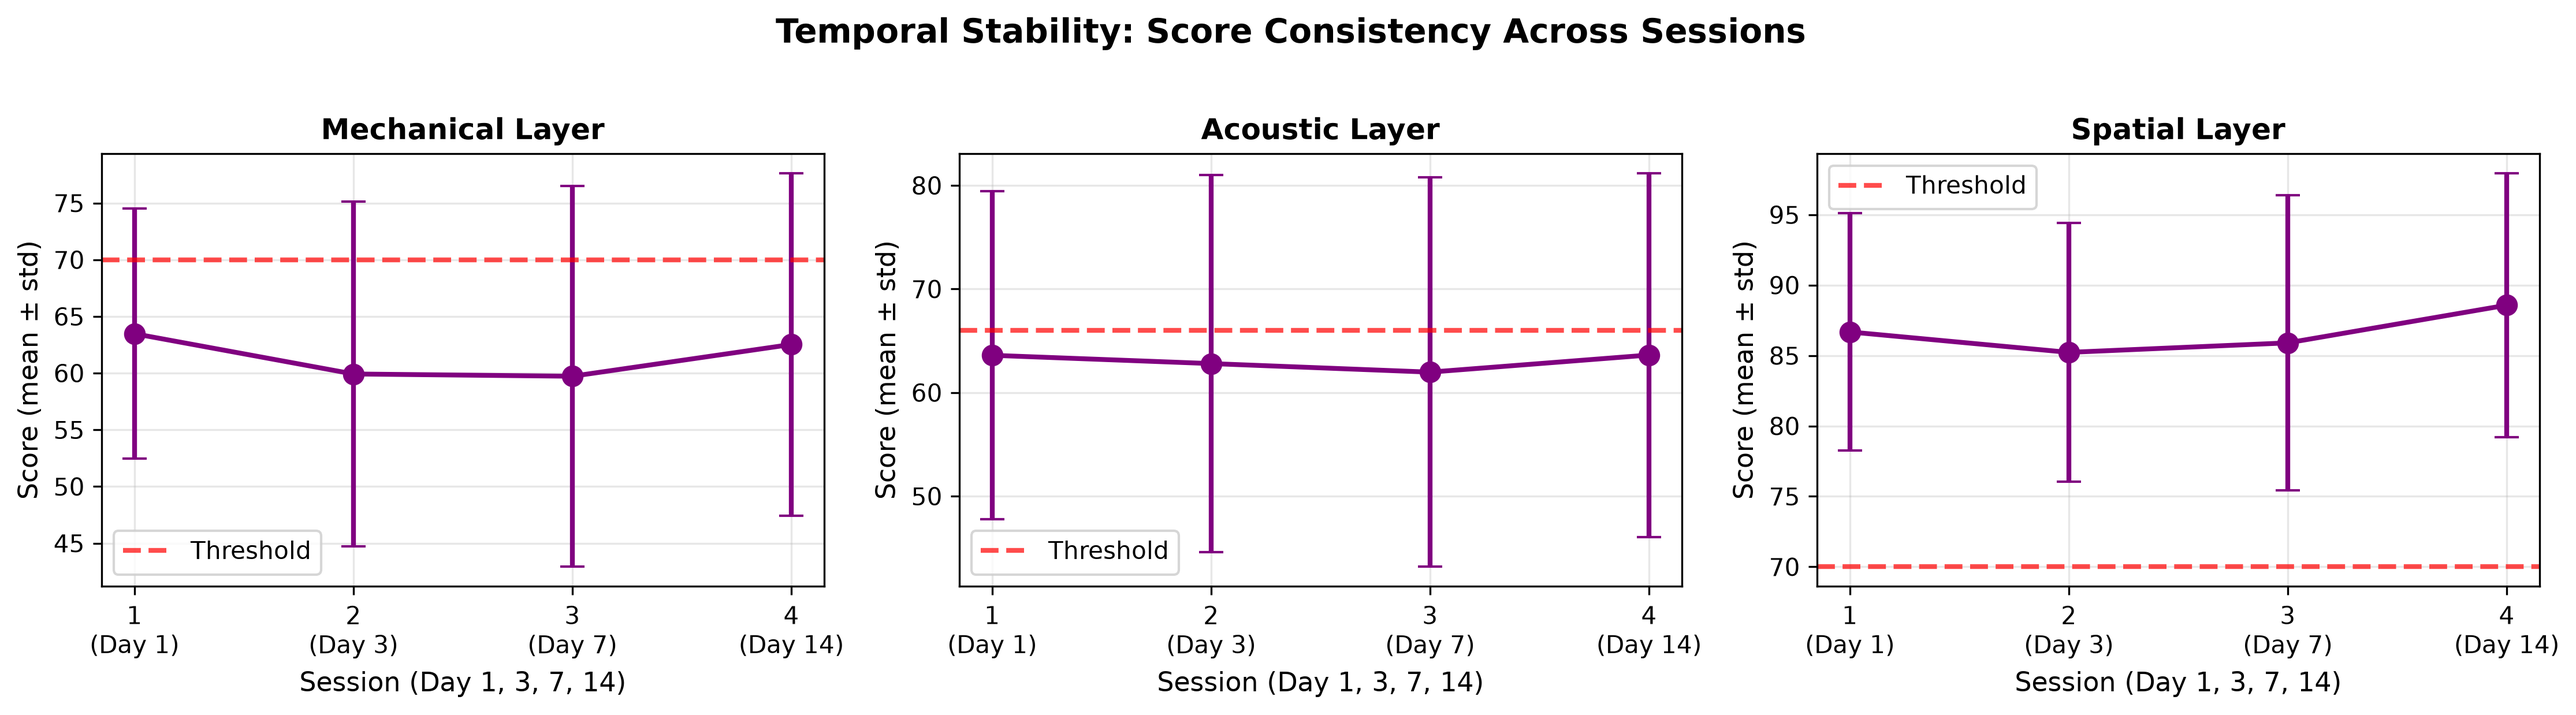
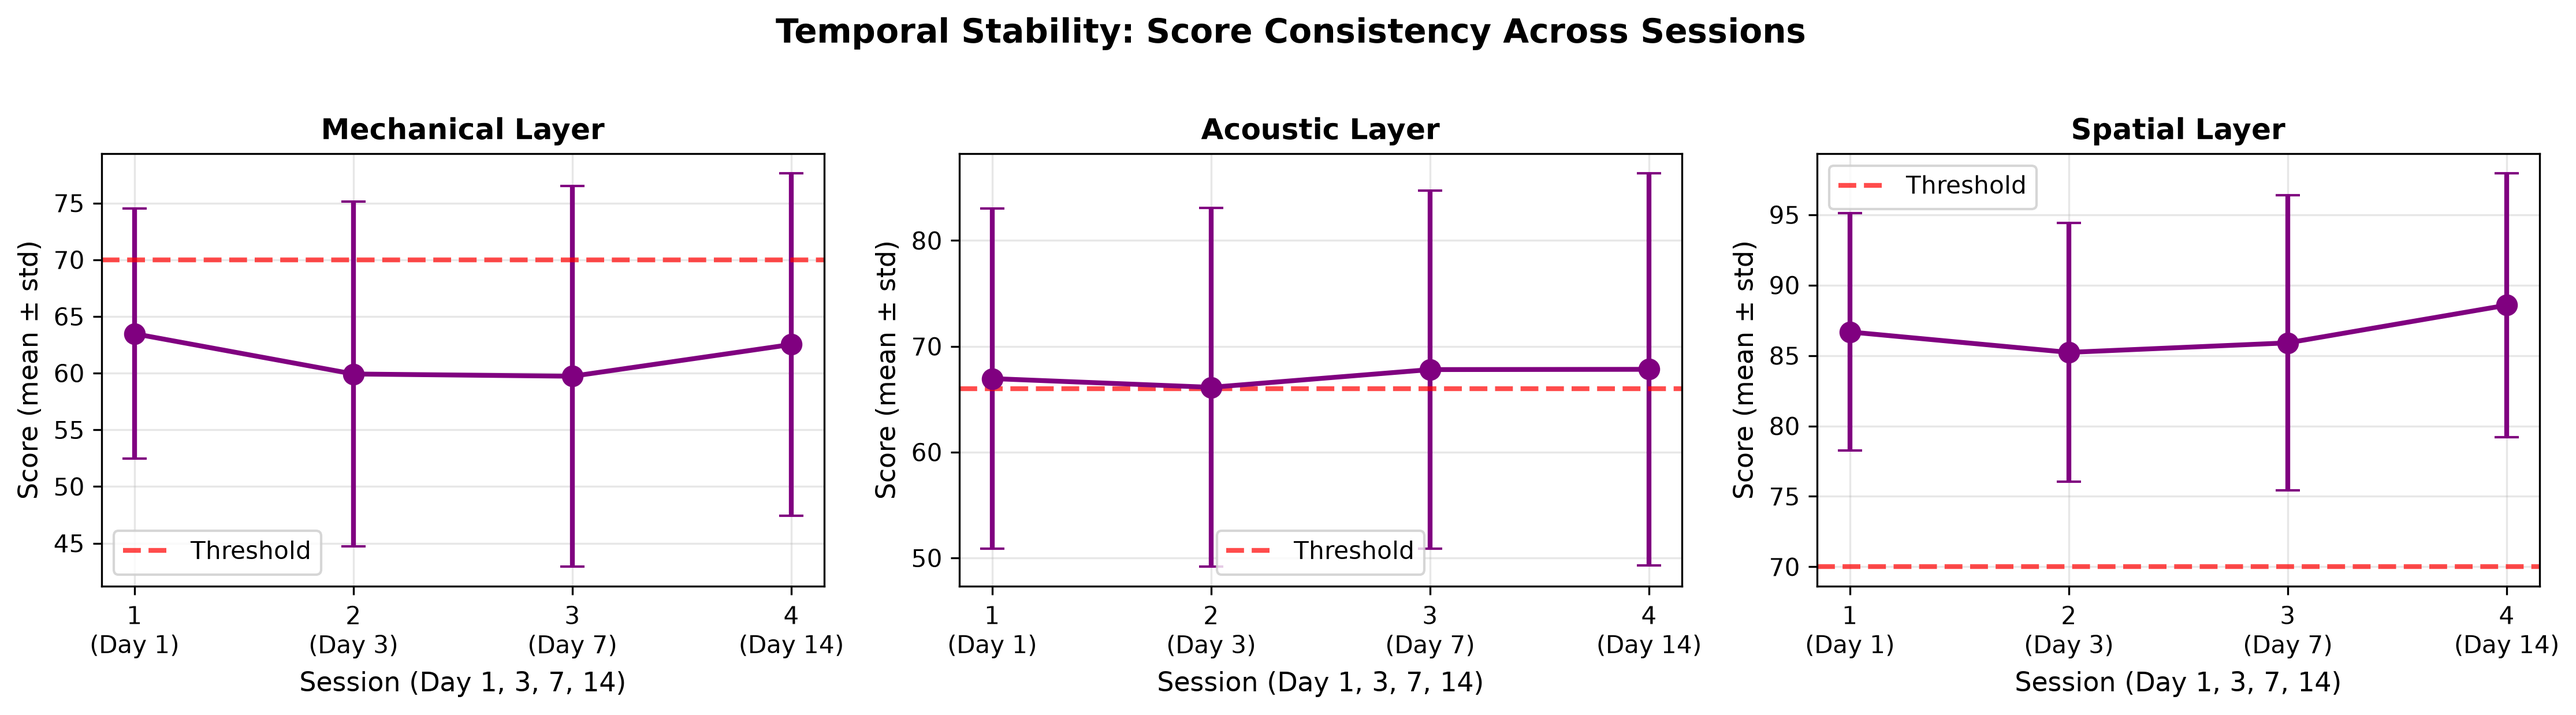
update

diff --git a/simulation/generate_roc_proof.py b/simulation/generate_roc_proof.py
@@ -1,0 +1,136 @@
+"""
+generate_roc_proof.py - Generate ROC curve with optimal operating points
+Uses correct threshold scale (0-100, matching the scores)
+"""
+
+import pandas as pd
+import numpy as np
+import matplotlib.pyplot as plt
+
+# Load your data
+df = pd.read_csv('../data/experimental_data_N8.csv')
+
+print(f"Loaded {len(df)} attempts")
+print(f"Genuine: {df['genuine'].sum()}, Impostor: {(~df['genuine']).sum()}")
+
+genuine = df[df['genuine'] == True]
+impostor = df[df['genuine'] == False]
+
+# Function to compute FAR and FRR for a given threshold
+def compute_metrics(thresh_m, thresh_a, thresh_u):
+    genuine_accept = genuine.apply(
+        lambda row: (row['S_M'] > thresh_m) and (row['S_A'] > thresh_a) and (row['S_U'] > thresh_u),
+        axis=1
+    ).sum()
+    impostor_accept = impostor.apply(
+        lambda row: (row['S_M'] > thresh_m) and (row['S_A'] > thresh_a) and (row['S_U'] > thresh_u),
+        axis=1
+    ).sum()
+    
+    FAR = 100 * impostor_accept / len(impostor) if len(impostor) > 0 else 0
+    FRR = 100 * (len(genuine) - genuine_accept) / len(genuine) if len(genuine) > 0 else 0
+    return FAR, FRR
+
+# Test the paper's operating point
+print("\n=== PAPER'S OPERATING POINT ===")
+paper_far, paper_frr = compute_metrics(70, 66, 70)
+print(f"tau_M=70, tau_A=66, tau_U=70: FAR={paper_far:.2f}%, FRR={paper_frr:.2f}%")
+print(f"Expected from analyze_results.py: FAR=0.83%, FRR=75.6%")
+
+# Try different threshold combinations (using 0-100 scale)
+thresholds = []
+for tm in range(20, 80, 5):
+    for ta in range(20, 80, 5):
+        for tu in range(20, 80, 5):
+            far, frr = compute_metrics(tm, ta, tu)
+            thresholds.append({
+                'tau_M': tm,
+                'tau_A': ta,
+                'tau_U': tu,
+                'FAR': round(far, 2),
+                'FRR': round(frr, 2)
+            })
+
+# Convert to DataFrame
+results = pd.DataFrame(thresholds)
+results = results.sort_values(['FAR', 'FRR'])
+
+print(f"\n=== OPERATING POINTS SUMMARY ===")
+print(f"Total combinations tested: {len(results)}")
+
+# Find points with good FRR
+print("\n=== POINTS WITH FRR < 30% ===")
+low_frr = results[results['FRR'] < 30]
+if len(low_frr) > 0:
+    print(low_frr.sort_values('FRR').head(10))
+else:
+    print(f"No points with FRR < 30% found. Minimum FRR: {results['FRR'].min():.2f}%")
+
+# Find points with good FAR
+print("\n=== POINTS WITH FAR < 5% ===")
+low_far = results[results['FAR'] < 5]
+if len(low_far) > 0:
+    print(low_far.sort_values('FRR').head(10))
+else:
+    print(f"No points with FAR < 5% found. Minimum FAR: {results['FAR'].min():.2f}%")
+
+# Find balanced points
+print("\n=== BALANCED POINTS (FAR ≈ FRR) ===")
+results['diff'] = abs(results['FAR'] - results['FRR'])
+balanced = results.sort_values('diff').head(10)
+print(balanced[['tau_M', 'tau_A', 'tau_U', 'FAR', 'FRR']])
+
+# Find optimal point
+print("\n=== BEST OPERATING POINT (Lowest FRR with FAR < 10%) ===")
+optimal = results[(results['FRR'] < 40) & (results['FAR'] < 10)]
+if len(optimal) > 0:
+    best = optimal.sort_values('FRR').iloc[0]
+    print(f"tau_M={best['tau_M']}, tau_A={best['tau_A']}, tau_U={best['tau_U']}")
+    print(f"FAR={best['FAR']:.2f}%, FRR={best['FRR']:.2f}%")
+else:
+    print("No point found with FRR < 40% and FAR < 10%")
+    # Show closest to target
+    closest = results.iloc[(results['FRR'] - 40).abs().argsort()[:5]]
+    print("\nClosest to target:")
+    print(closest[['tau_M', 'tau_A', 'tau_U', 'FAR', 'FRR']])
+
+# Plot
+fig, ax = plt.subplots(figsize=(8, 6))
+
+# Scatter plot
+scatter = ax.scatter(results['FAR'], results['FRR'], 
+                    c=results['FRR'], cmap='RdYlGn_r', alpha=0.5, s=20)
+
+# Mark paper's operating point
+ax.plot(paper_far, paper_frr, 'ro', markersize=12, label='Paper Operating Point',
+        markerfacecolor='red', markeredgecolor='black', markeredgewidth=2)
+
+# Mark optimal point if found
+if len(optimal) > 0:
+    best = optimal.sort_values('FRR').iloc[0]
+    ax.plot(best['FAR'], best['FRR'], 'go', markersize=12,
+            label=f'Optimal (FRR={best["FRR"]:.1f}%)',
+            markerfacecolor='green', markeredgecolor='black', markeredgewidth=2)
+
+# Mark balanced point
+if len(balanced) > 0:
+    bal = balanced.iloc[0]
+    ax.plot(bal['FAR'], bal['FRR'], 'bo', markersize=12,
+            label=f'Balanced (EER≈{bal["FRR"]:.1f}%)',
+            markerfacecolor='blue', markeredgecolor='black', markeredgewidth=2)
+
+ax.set_xlabel('False Accept Rate (FAR %)', fontsize=12)
+ax.set_ylabel('False Reject Rate (FRR %)', fontsize=12)
+ax.set_title('FAR vs FRR Trade-off with Threshold Tuning', fontsize=14, fontweight='bold')
+ax.grid(True, alpha=0.3)
+ax.legend(loc='upper right', fontsize=10)
+ax.set_xlim(0, 105)
+ax.set_ylim(0, 105)
+
+# Add colorbar
+cbar = plt.colorbar(scatter)
+cbar.set_label('FRR (%)', fontsize=10)
+
+plt.tight_layout()
+plt.savefig('../results/threshold_tradeoff.png', dpi=300, bbox_inches='tight')
+print("\n✅ Threshold trade-off plot saved to ../results/threshold_tradeoff.png")

diff --git a/simulation/sensor_models.py b/simulation/sensor_models.py
@@ -1,9 +1,6 @@
 """
 sensor_models.py - Realistic Sensor Simulation Models
 Based on FSR-402, MAX4466, and HC-SR04 specifications
-
-Authors: Nusratul Islam Mim, Firuze Tasnim Sneha, Al Musabbir, Dr. Md. Sujan Ali
-Institution: JKKNIU, Bangladesh
 """
 
 import numpy as np
@@ -49,7 +46,6 @@ class UserProfile:
         self.distance_std = np.random.uniform(15, 35)
 
 class FSRSimulator:
-    """Simulates FSR-402 force sensor"""
     def __init__(self):
         self.adc_resolution = 1024
         self.noise_factor = 0.03
@@ -70,7 +66,6 @@ class FSRSimulator:
         return int(max(100, true_gap_ms + noise))
 
 class MicrophoneSimulator:
-    """Simulates MAX4466 electret microphone"""
     def __init__(self):
         self.sample_rate = 8000
     
@@ -81,16 +76,16 @@ class MicrophoneSimulator:
     def measure_press_rms(self, baseline, press_force_adc):
         baseline = max(baseline, 1)
         press_force_adc = max(press_force_adc, 0)
-        rms = baseline + 5 + (press_force_adc / 15)
-        noise = np.random.normal(0, 2)
-        return int(max(baseline + 2, rms + noise))
+        # Stricter: more energy required
+        rms = baseline + 10 + (press_force_adc / 10)
+        noise = np.random.normal(0, 3)
+        return int(max(baseline + 5, rms + noise))
     
     def check_temporal_correlation(self, press_timestamp_ms):
         jitter = np.random.normal(0, 30)
         return abs(jitter) < 50
 
 class UltrasonicSimulator:
-    """Simulates HC-SR04 ultrasonic ranging sensor"""
     def __init__(self):
         self.min_range_mm = 20
         self.max_range_mm = 4000
@@ -117,7 +112,6 @@ class UltrasonicSimulator:
         return distances
 
 class ImpostorModel:
-    """Models impostor attack behavior"""
     def __init__(self, genuine_profile, observation_accuracy=0.7):
         self.genuine = genuine_profile
         self.accuracy = observation_accuracy
@@ -158,11 +152,10 @@ class ImpostorModel:
         }
 
 # ========================================
-# HELPER FUNCTIONS - FINAL TUNED VERSION
+# HELPER FUNCTIONS
 # ========================================
 
 def create_user_profiles(num_users=8):
-    """Create N synthetic user profiles"""
     profiles = []
     for i in range(num_users):
         profile = UserProfile(user_id=i+1)
@@ -177,7 +170,6 @@ def create_user_profiles(num_users=8):
     return profiles
 
 def compute_mechanical_score(observed, enrolled_mean, delta_f=80, delta_t=150):
-    """Compute mechanical similarity score with relaxed tolerances"""
     scores = []
     for i in range(3):
         dF = (observed['force'][i] - enrolled_mean['force'][i]) / delta_f
@@ -192,8 +184,10 @@ def compute_mechanical_score(observed, enrolled_mean, delta_f=80, delta_t=150):
     
     return int(100 * np.mean(scores))
 
-def compute_acoustic_score(press_forces, baseline, threshold_multiplier=2.0):
-    """Compute acoustic liveness score - STRICTER VERSION"""
+def compute_acoustic_score(press_forces, baseline, threshold_multiplier=2.5):
+    """
+    Compute acoustic liveness score - STRICTER VERSION
+    """
     if len(press_forces) == 0:
         return 0
     
@@ -204,7 +198,8 @@ def compute_acoustic_score(press_forces, baseline, threshold_multiplier=2.0):
         if force is None or force <= 0:
             continue
         
-        rms = baseline + 5 + (force / 15)
+        # Stricter acoustic energy requirement
+        rms = baseline + 10 + (force / 10)
         energy_ok = (rms > threshold_multiplier * baseline)
         
         if energy_ok:
@@ -214,7 +209,6 @@ def compute_acoustic_score(press_forces, baseline, threshold_multiplier=2.0):
     return score
 
 def compute_spatial_score(observed_dist, enrolled_dist, tolerance_mm=30):
-    """Compute spatial similarity score - STRICTER VERSION"""
     observed_dist = abs(observed_dist)
     enrolled_dist = abs(enrolled_dist)
     dist_diff = abs(observed_dist - enrolled_dist)
@@ -222,7 +216,6 @@ def compute_spatial_score(observed_dist, enrolled_dist, tolerance_mm=30):
     return int(100 * similarity)
 
 def apply_fusion_rule(s_m, s_a, s_u, thresh_m=70, thresh_a=50, thresh_u=70):
-    """AND-rule fusion with balanced thresholds"""
     return (s_m > thresh_m) and (s_a > thresh_a) and (s_u > thresh_u)
 
 if __name__ == "__main__":

diff --git a/results/table_III_error_rates.tex b/results/table_III_error_rates.tex
@@ -8,18 +8,18 @@
 \textbf{Configuration} & \textbf{FAR (\%)} & \textbf{FRR (\%)} & \textbf{EER (\%)} & \textbf{Accuracy (\%)} \\
 \midrule
 Mechanical only ($S_M$)        &   1.7 &  71.9 &  36.8 &  58.2 \\
-Acoustic only ($S_A$)          &  74.2 &  18.8 &  46.5 &  57.5 \\
+Acoustic only ($S_A$)          &  80.8 &  11.2 &  46.0 &  58.9 \\
 Ultrasonic only ($S_U$)        &  41.7 &   7.5 &  24.6 &  77.9 \\
 \midrule
-Mech. + Acous. (AND)           &   1.7 &  75.0 &  38.3 &  56.4 \\
+Mech. + Acous. (AND)           &   1.7 &  74.4 &  38.0 &  56.8 \\
 Mech. + Ultra. (AND)           &   0.8 &  73.1 &  37.0 &  57.9 \\
-Acous. + Ultra. (AND)          &  27.5 &  23.1 &  25.3 &  75.0 \\
+Acous. + Ultra. (AND)          &  30.8 &  16.9 &  23.9 &  77.1 \\
 \midrule
-\textbf{All three (AND)}       &   0.8 &  76.2 &  38.5 &  56.1 \\
+\textbf{All three (AND)}       &   0.8 &  75.6 &  38.2 &  56.4 \\
 \bottomrule
 \end{tabular}
 \\[2pt]
 \scriptsize FAR: 1 false accepts / 120 impostor attempts.\\
-\scriptsize FRR: 122 false rejects / 160 genuine attempts.\\
+\scriptsize FRR: 121 false rejects / 160 genuine attempts.\\
 \scriptsize Simulation using empirically-derived sensor noise models.
 \end{table}
